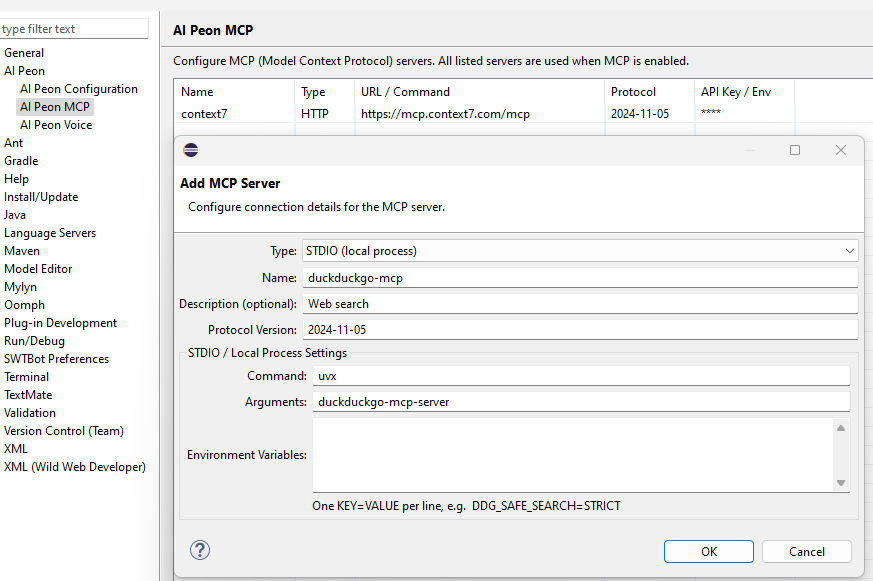
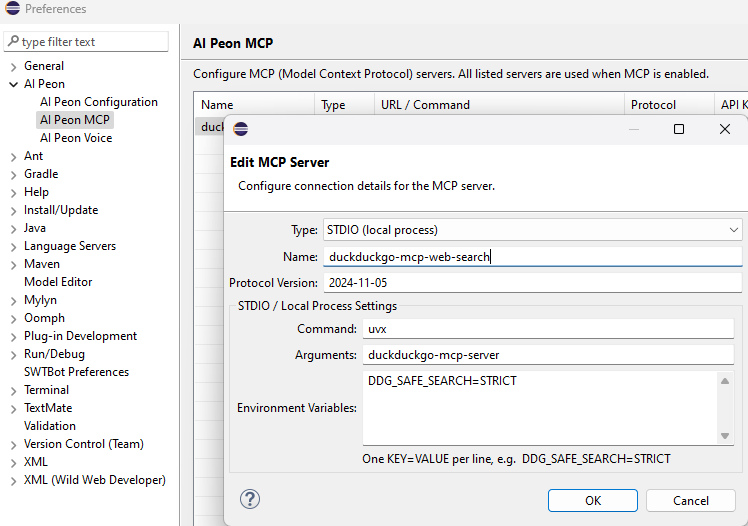
removed description

Changed region(s): [[0.0, 0.0, 1.0, 1.0], [0.9532, 0.6996, 0.984, 0.73]]

diff --git a/org.sterl.llmpeon.core/src/main/java/org/sterl/llmpeon/mcp/McpServerConfig.java b/org.sterl.llmpeon.core/src/main/java/org/sterl/llmpeon/mcp/McpServerConfig.java
@@ -13,7 +13,6 @@ import org.sterl.llmpeon.shared.StringUtil;
  * @param command         executable to launch — STDIO only, e.g. "uvx"
  * @param args            space-separated arguments — STDIO only, e.g. "duckduckgo-mcp-server"
  * @param envVars         KEY=VALUE lines passed as environment variables — STDIO only
- * @param description     optional hint for the AI describing what this server provides
  */
 public record McpServerConfig(
         String name,
@@ -23,27 +22,25 @@ public record McpServerConfig(
         String protocolVersion,
         String command,
         String args,
-        String envVars,
-        String description) {
+        String envVars) {
 
     public enum McpTransportType { HTTP, STDIO }
 
     public static final String DEFAULT_PROTOCOL_VERSION = "2024-11-05";
 
     public McpServerConfig {
-        if (type == null)            type = McpTransportType.HTTP;
-        if (name == null)            name = "";
-        if (url == null)             url = "";
-        if (apiKey == null)          apiKey = "";
-        if (command == null)         command = "";
-        if (args == null)            args = "";
-        if (envVars == null)         envVars = "";
-        if (description == null)     description = "";
+        if (type == null)   type = McpTransportType.HTTP;
+        if (name == null)   name = "";
+        if (url == null)    url = "";
+        if (apiKey == null) apiKey = "";
+        if (command == null) command = "";
+        if (args == null)   args = "";
+        if (envVars == null) envVars = "";
         if (StringUtil.hasNoValue(protocolVersion)) protocolVersion = DEFAULT_PROTOCOL_VERSION;
     }
 
     /** Convenience constructor for HTTP servers (backward-compatible with existing call sites). */
     public McpServerConfig(String name, String url, String apiKey, String protocolVersion) {
-        this(name, McpTransportType.HTTP, url, apiKey, protocolVersion, "", "", "", "");
+        this(name, McpTransportType.HTTP, url, apiKey, protocolVersion, "", "", "");
     }
 }

diff --git a/org.sterl.llmpeon/src/org/sterl/llmpeon/parts/config/McpPreferenceView.java b/org.sterl.llmpeon/src/org/sterl/llmpeon/parts/config/McpPreferenceView.java
@@ -206,7 +206,6 @@ public class McpPreferenceView extends PreferencePage implements IWorkbenchPrefe
 
         private Combo cmbType;
         private Text txtName;
-        private Text txtDescription;
         private Text txtProtocol;
 
         // HTTP fields
@@ -255,9 +254,6 @@ public class McpPreferenceView extends PreferencePage implements IWorkbenchPrefe
             // Common fields
             addLabel(container, "Name:");
             txtName = addText(container, initial != null ? initial.name() : "my-mcp");
-
-            addLabel(container, "Description (optional):");
-            txtDescription = addText(container, initial != null ? initial.description() : "");
 
             addLabel(container, "Protocol Version:");
             txtProtocol = addText(container, initial != null ? initial.protocolVersion() : McpServerConfig.DEFAULT_PROTOCOL_VERSION);
@@ -344,8 +340,7 @@ public class McpPreferenceView extends PreferencePage implements IWorkbenchPrefe
                     txtProtocol.getText().trim(),
                     stdio ? txtCommand.getText().trim() : "",
                     stdio ? txtArgs.getText().trim() : "",
-                    stdio ? txtEnvVars.getText() : "",
-                    txtDescription.getText().trim()
+                    stdio ? txtEnvVars.getText() : ""
             );
             super.okPressed();
         }

diff --git a/org.sterl.llmpeon/src/org/sterl/llmpeon/parts/config/CopilotDeviceFlowDialog.java b/org.sterl.llmpeon/src/org/sterl/llmpeon/parts/config/CopilotDeviceFlowDialog.java
@@ -30,6 +30,7 @@ import org.eclipse.swt.widgets.Shell;
 import org.eclipse.swt.widgets.Text;
 import org.sterl.llmpeon.parts.PeonConstants;
 
+import com.fasterxml.jackson.databind.DeserializationFeature;
 import com.fasterxml.jackson.databind.ObjectMapper;
 
 public class CopilotDeviceFlowDialog extends Dialog {
@@ -39,7 +40,8 @@ public class CopilotDeviceFlowDialog extends Dialog {
     private static final String POLL_URL               = "https://github.com/login/oauth/access_token";
 
     private final HttpClient http     = HttpClient.newHttpClient();
-    private final ObjectMapper mapper = new ObjectMapper();
+    private final ObjectMapper mapper = new ObjectMapper()
+            .configure(DeserializationFeature.FAIL_ON_UNKNOWN_PROPERTIES, true);
 
     private String deviceCode;
     private String verificationUri;

diff --git a/org.sterl.llmpeon/src/org/sterl/llmpeon/parts/config/McpPreferenceInitializer.java b/org.sterl.llmpeon/src/org/sterl/llmpeon/parts/config/McpPreferenceInitializer.java
@@ -10,11 +10,13 @@ import org.sterl.llmpeon.mcp.McpServerConfig;
 import org.sterl.llmpeon.parts.PeonConstants;
 
 import com.fasterxml.jackson.core.type.TypeReference;
+import com.fasterxml.jackson.databind.DeserializationFeature;
 import com.fasterxml.jackson.databind.ObjectMapper;
 
 public class McpPreferenceInitializer extends AbstractPreferenceInitializer {
 
-    private static final ObjectMapper MAPPER = new ObjectMapper();
+    private static final ObjectMapper MAPPER = new ObjectMapper()
+            .configure(DeserializationFeature.FAIL_ON_UNKNOWN_PROPERTIES, true);
     private static final TypeReference<List<McpServerConfig>> SERVER_LIST_TYPE = new TypeReference<>() {};
 
     @Override

diff --git a/org.sterl.llmpeon/src/org/sterl/llmpeon/parts/widget/ChatMarkdownWidget.java b/org.sterl.llmpeon/src/org/sterl/llmpeon/parts/widget/ChatMarkdownWidget.java
@@ -16,6 +16,7 @@ import org.sterl.llmpeon.tool.model.SimpleMessage;
 import org.sterl.llmpeon.tool.model.ToSimpleMessage;
 
 import com.fasterxml.jackson.core.JsonProcessingException;
+import com.fasterxml.jackson.databind.DeserializationFeature;
 import com.fasterxml.jackson.databind.ObjectMapper;
 
 import dev.langchain4j.data.message.ChatMessage;
@@ -23,7 +24,8 @@ import dev.langchain4j.data.message.ChatMessage;
 public class ChatMarkdownWidget extends Composite {
 
     private final Browser browser;
-    private final ObjectMapper mapper = new ObjectMapper();
+    private final ObjectMapper mapper = new ObjectMapper()
+            .configure(DeserializationFeature.FAIL_ON_UNKNOWN_PROPERTIES, true);
     private String chatHtml = null;
 
     public ChatMarkdownWidget(Composite parent, int style) {

diff --git a/org.sterl.llmpeon.core/src/main/java/org/sterl/llmpeon/mcp/McpService.java b/org.sterl.llmpeon.core/src/main/java/org/sterl/llmpeon/mcp/McpService.java
@@ -75,8 +75,8 @@ public class McpService implements AutoCloseable {
 
                 var tools = client.listTools();
                 clients.add(client);
-                toolSpecs.addAll(tools);
                 for (var spec : tools) {
+                    toolSpecs.add(spec);
                     toolToClient.put(spec.name(), client);
                     log.info("Connected MCP " + server.name() + " tool " + spec.name());
                 }